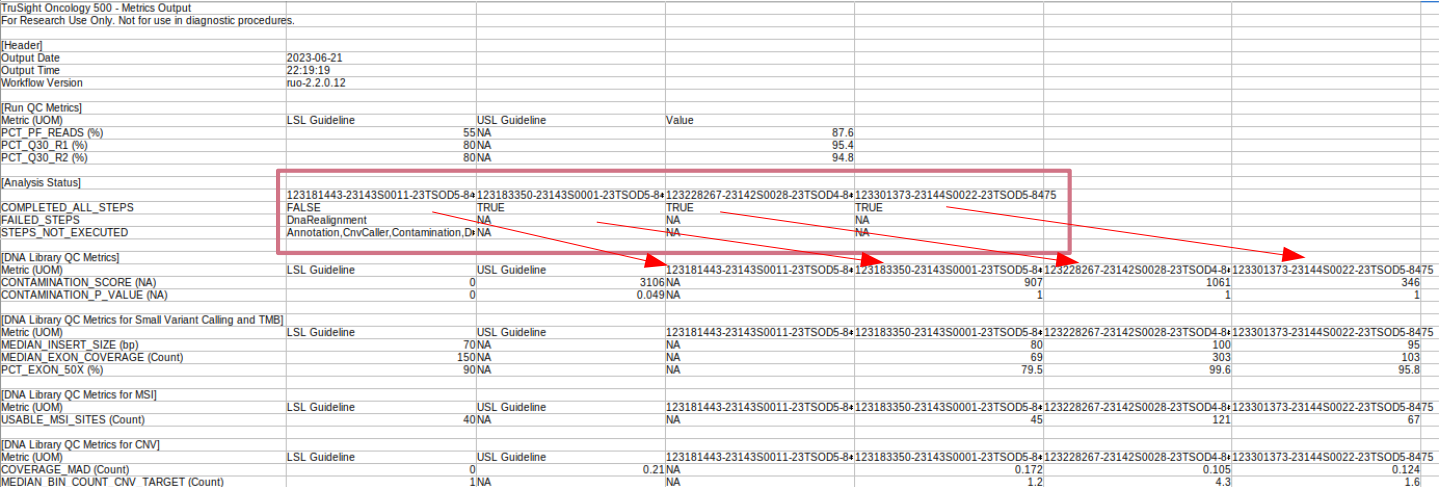
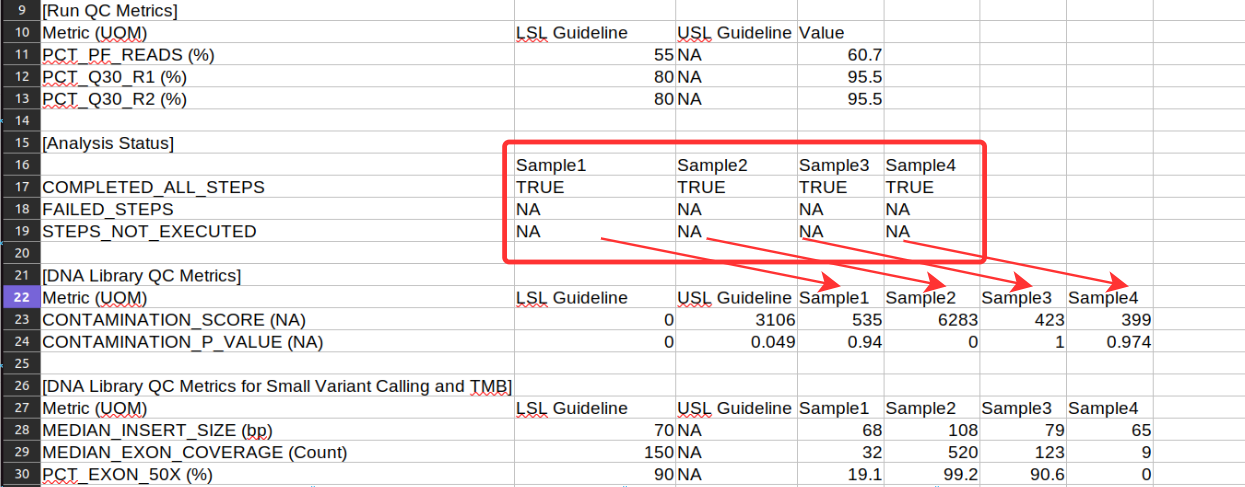
Minor changes 	modified:   Readme.md 	modified:   dxapp.json 	modified:   images/shift_rows.png 	modified:   resources/home/dnanexus/process_metrics_file.py

diff --git a/resources/home/dnanexus/process_metrics_file.py b/resources/home/dnanexus/process_metrics_file.py
@@ -245,6 +245,7 @@ def tsv_to_excel(input_filepath, output_filepath):
                         # Convert to int if float not possible
                         converted_row.append(int(item))
                     except ValueError:
+                        # If no exceptions work, item is treated as str
                         converted_row.append(item)
             worksheet.append(converted_row)
 

diff --git a/Readme.md b/Readme.md
@@ -26,7 +26,7 @@ The app runs a python script to create an .xlsx file from the provided .tsv file
 ## What does this app output
 Returns a .xlsx file with all the requested changes. As an example, the figures below depicts how the excel file looks before and after any modifications implemented.
 
-- MetricsOutput file after any modifications:![alt text](images/before_change.png)
+- MetricsOutput file before any modifications:![alt text](images/before_change.png)
 - MetricsOutput file after any modifications:![alt text](images/after_change.png)
 
 
@@ -35,4 +35,4 @@ This is the source code for an app that runs on the DNAnexus Platform.
 For more information about how to run or modify it, see
 https://documentation.dnanexus.com/.
 
-[helios-manual]: https://cuhbioinformatics.atlassian.net/wiki/spaces/O/pages/3017506817/Helios+Manual+v10#Quality-Control
+[helios-manual]: https://cuhbioinformatics.atlassian.net/wiki/spaces/O/pages/3082190955/Live+cancer+guides
